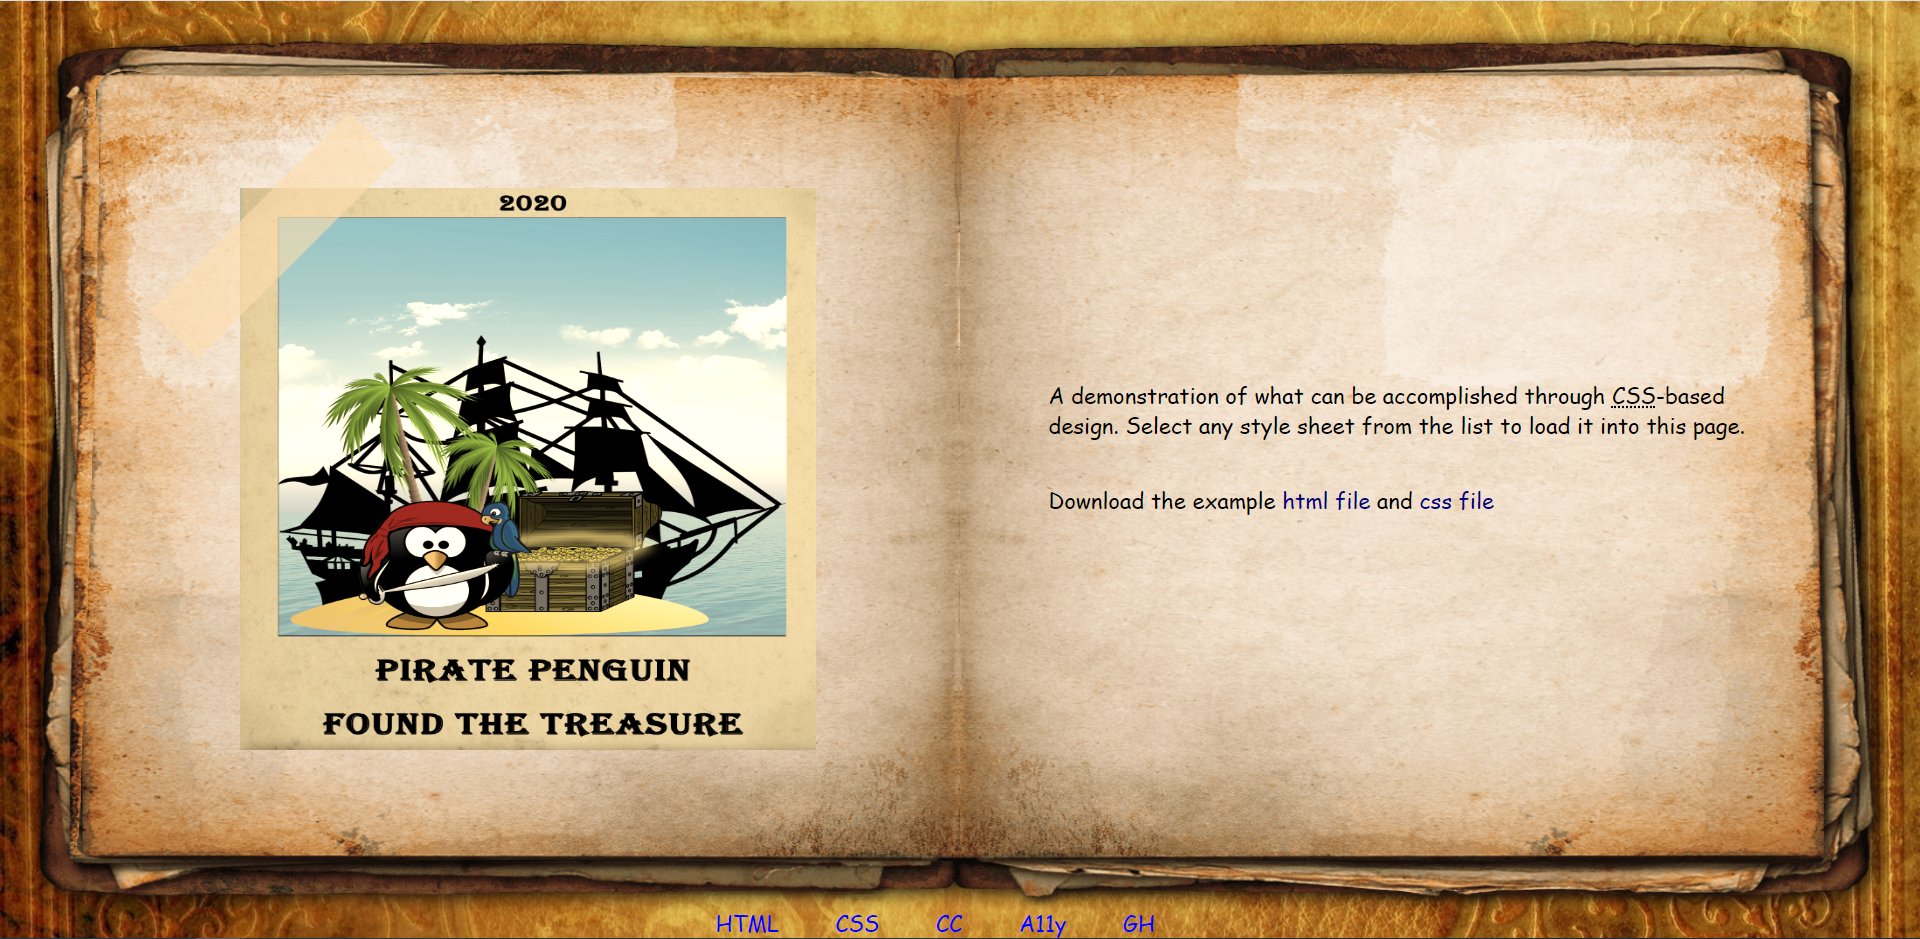
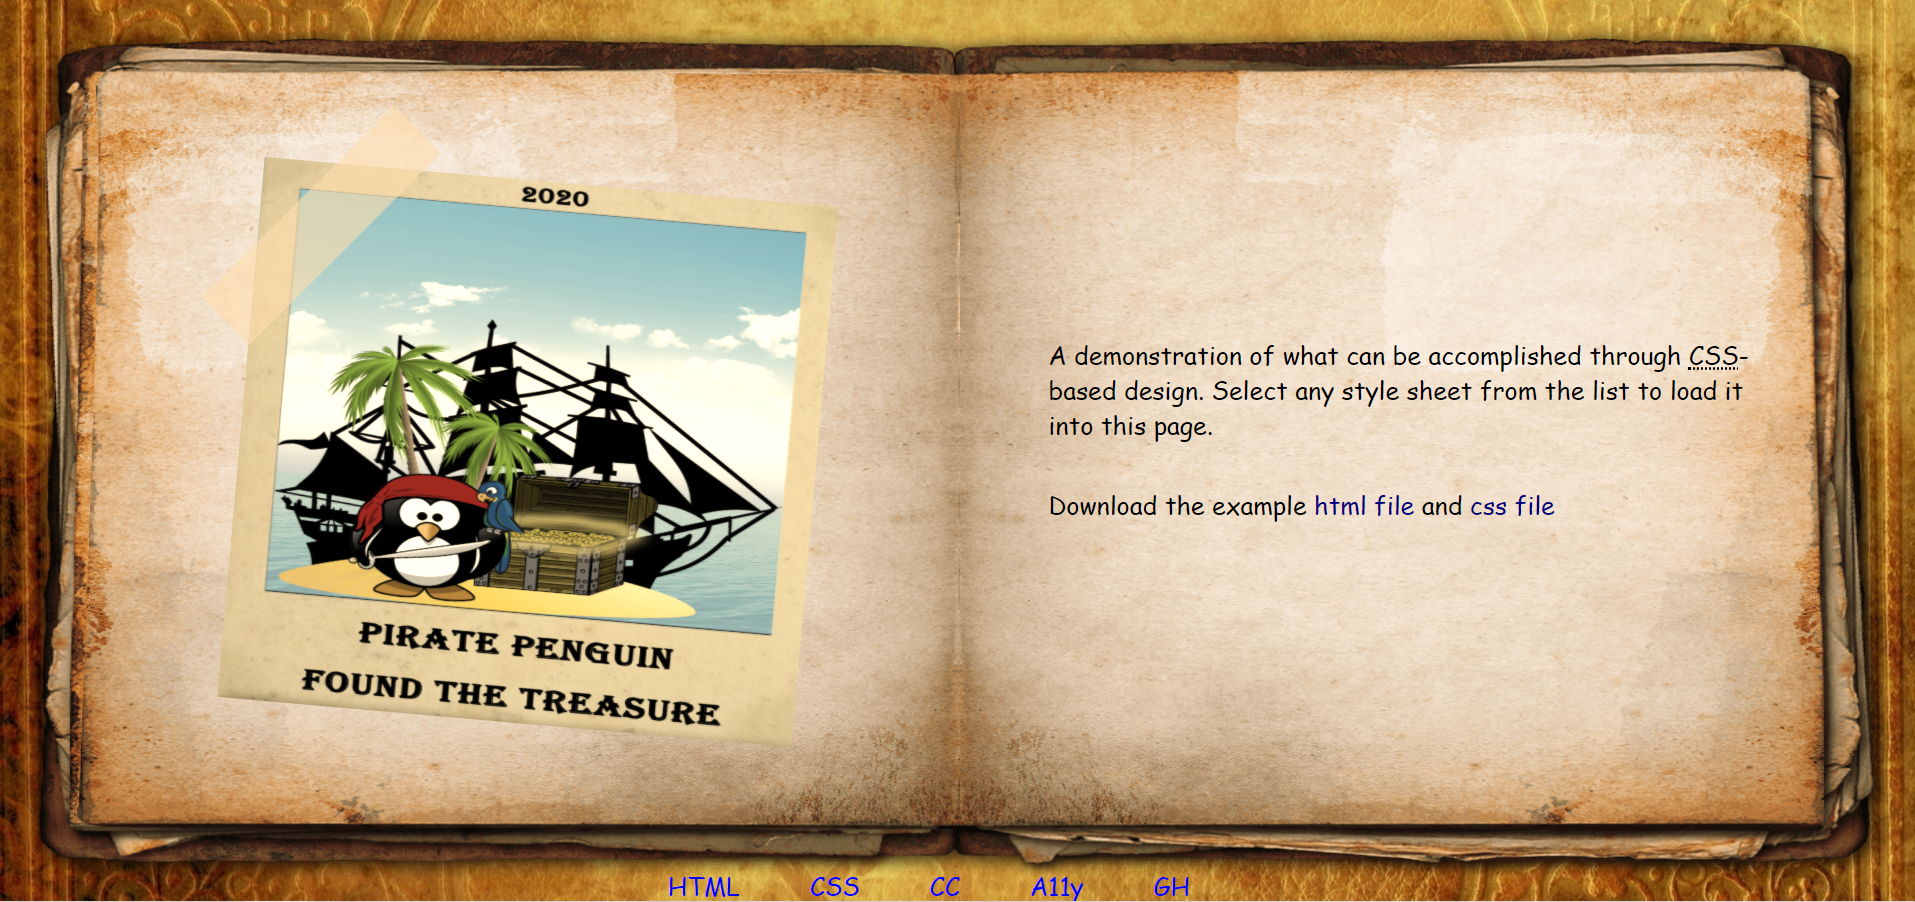
edit css and change image

diff --git a/css/css_garden_style.css b/css/css_garden_style.css
@@ -329,6 +329,7 @@ footer a:visited {
    height: 60%;
    margin-right: 15%;
    filter: sepia(50%);
+   transform: rotate(5deg);
 }
 .extra1::after,
 .extra2::after,
@@ -348,7 +349,7 @@ footer a:visited {
 .extra6::after{
    transform: rotate(45deg);
    top: 10%;
-   left: 25%;
+   left: 30%;
 }
 
 @media (min-width:1000px) and (max-width:1600px){
